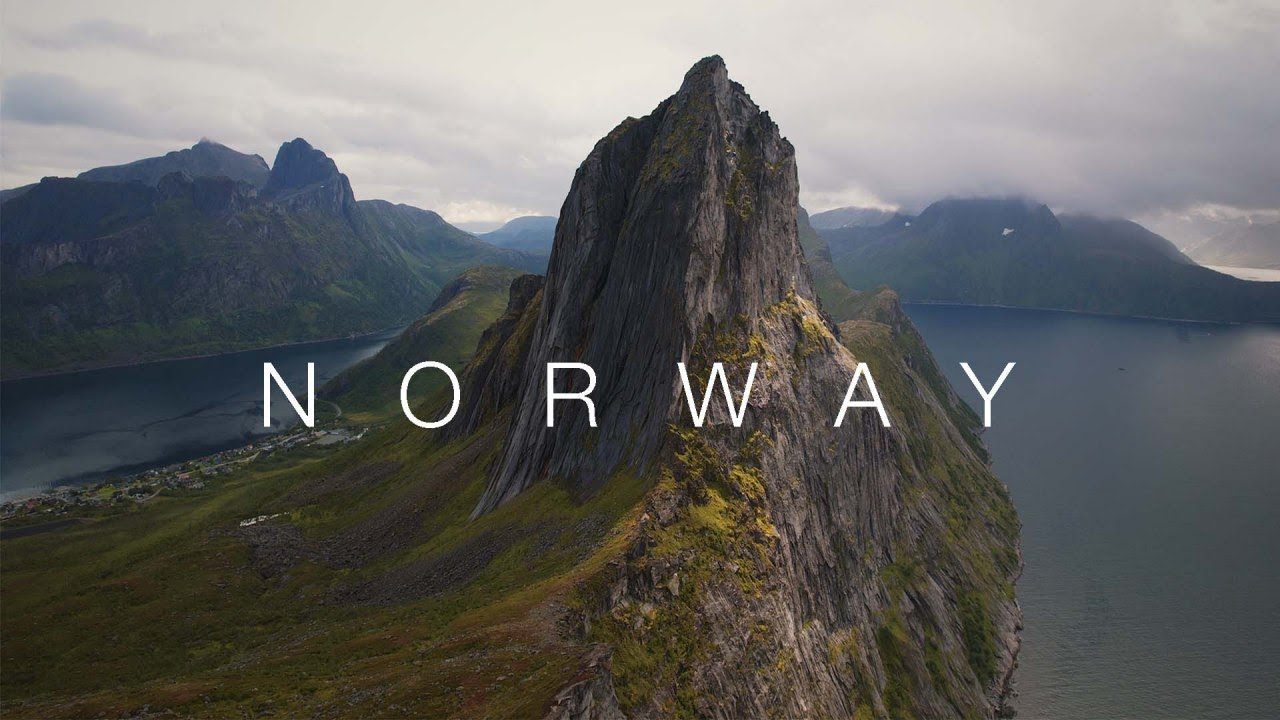
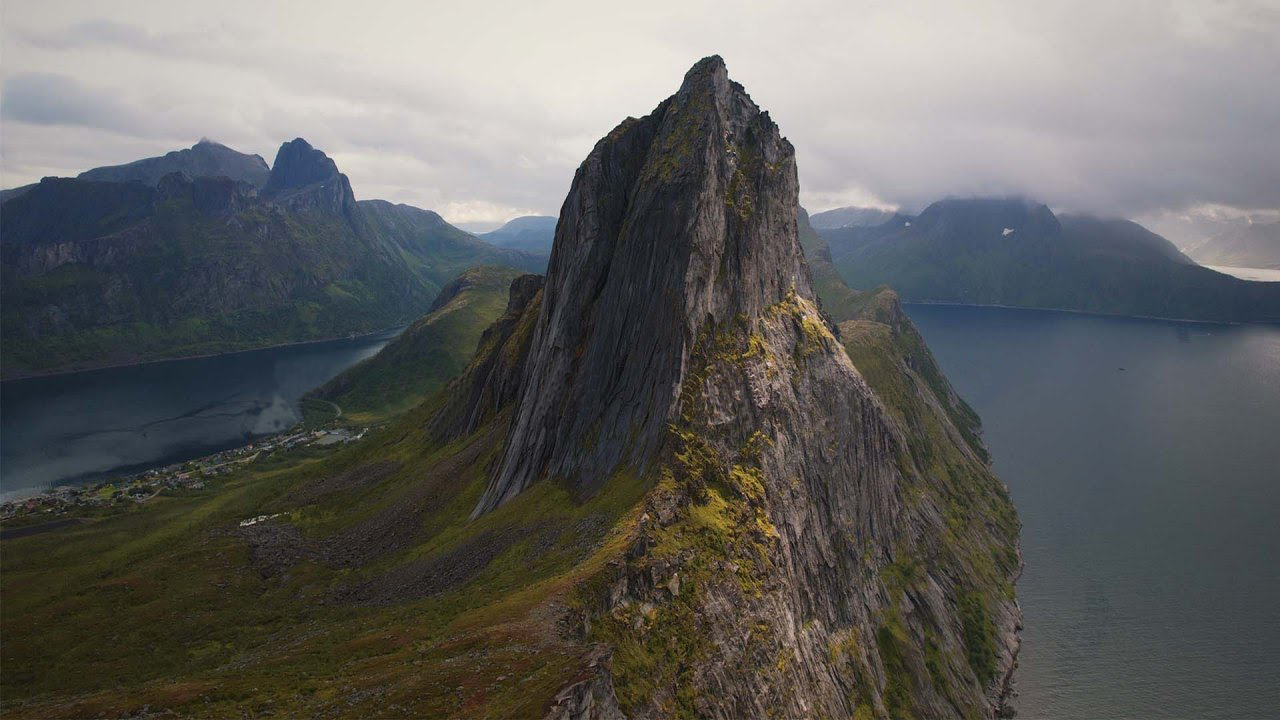
Fixed details

diff --git a/index.html b/index.html
@@ -1,82 +1,98 @@
 <!DOCTYPE html>
 <html lang="en">
+  <head>
+    <meta charset="UTF-8" />
+    <meta http-equiv="X-UA-Compatible" content="IE=edge" />
+    <meta name="viewport" content="width=device-width, initial-scale=1.0" />
+    <link rel="preconnect" href="https://fonts.googleapis.com" />
+    <link rel="preconnect" href="https://fonts.gstatic.com" crossorigin />
+    <link
+      href="https://fonts.googleapis.com/css2?family=Roboto:wght@400;500;700&display=swap"
+      rel="stylesheet"
+    />
+    <link
+      href="https://cdn.jsdelivr.net/npm/bootstrap@5.2.3/dist/css/bootstrap.min.css"
+      rel="stylesheet"
+      integrity="sha384-rbsA2VBKQhggwzxH7pPCaAqO46MgnOM80zW1RWuH61DGLwZJEdK2Kadq2F9CUG65"
+      crossorigin="anonymous"
+    />
+    <script
+      src="https://cdn.jsdelivr.net/npm/bootstrap@5.2.3/dist/js/bootstrap.bundle.min.js"
+      integrity="sha384-kenU1KFdBIe4zVF0s0G1M5b4hcpxyD9F7jL+jjXkk+Q2h455rYXK/7HAuoJl+0I4"
+      crossorigin="anonymous"
+    ></script>
+    <script
+      src="https://kit.fontawesome.com/d1e39d5fc4.js"
+      crossorigin="anonymous"
+    ></script>
+    <link rel="stylesheet" href="/css/styles.css" />
+    <title>Main page</title>
+  </head>
 
-<head>
-  <meta charset="UTF-8" />
-  <meta http-equiv="X-UA-Compatible" content="IE=edge" />
-  <meta name="viewport" content="width=device-width, initial-scale=1.0" />
-  <link rel="preconnect" href="https://fonts.googleapis.com" />
-  <link rel="preconnect" href="https://fonts.gstatic.com" crossorigin />
-  <link href="https://fonts.googleapis.com/css2?family=Roboto:wght@400;500;700&display=swap" rel="stylesheet" />
-  <link href="https://cdn.jsdelivr.net/npm/bootstrap@5.2.3/dist/css/bootstrap.min.css" rel="stylesheet"
-    integrity="sha384-rbsA2VBKQhggwzxH7pPCaAqO46MgnOM80zW1RWuH61DGLwZJEdK2Kadq2F9CUG65" crossorigin="anonymous" />
-  <script src="https://cdn.jsdelivr.net/npm/bootstrap@5.2.3/dist/js/bootstrap.bundle.min.js"
-    integrity="sha384-kenU1KFdBIe4zVF0s0G1M5b4hcpxyD9F7jL+jjXkk+Q2h455rYXK/7HAuoJl+0I4"
-    crossorigin="anonymous"></script>
-  <script src="https://kit.fontawesome.com/d1e39d5fc4.js" crossorigin="anonymous"></script>
-  <link rel="stylesheet" href="/css/styles.css" />
-  <title>Main page</title>
-</head>
-
-<body>
-  <div class="container">
-    <nav class="navbar navbar-expand-lg">
-      <div class="container-fluid">
-        <div class="collapse navbar-collapse navigation" id="navbarNav">
-          <ul class="navbar-nav">
-            <li class="nav-item me-4">
-              <a class="nav-link" aria-current="page" href="#">Tours</a>
-            </li>
-            <li class="nav-item me-4">
-              <a class="nav-link" href="#">About Norway</a>
-            </li>
-            <li class="nav-item me-4">
-              <a class="nav-link active" href="#">Norway</a>
-            </li>
-            <li class="nav-item me-4">
-              <a class="nav-link" href="#">About us</a>
-            </li>
-            <li class="nav-item me-4">
-              <a class="nav-link" href="#">Contacts</a>
-            </li>
-          </ul>
-        </div>
-      </div>
-    </nav>
+  <body>
     <div class="container">
-      <div class="col-10">
-        <img src="/images/norway-1.jpg" alt="norway rocks" class="image d-block m-auto img-fluid" />
-      </div>
-      <div class="  social">
-        <div class="col-2">
-          <div><i class="fa-brands fa-twitter fa-2xl text-light mb-5"></i></div>
-          <div>
-            <i class="fa-brands fa-instagram fa-2xl text-light mb-5 mt-5"></i>
+      <nav class="navbar navbar-expand-lg sticky-top">
+        <div class="container-fluid">
+          <div class="collapse navbar-collapse navigation" id="navbarNav">
+            <ul class="navbar-nav">
+              <li class="nav-item me-4">
+                <a class="nav-link" aria-current="page" href="/tour.html" target="_blank">Tours</a>
+              </li>
+              <li class="nav-item me-4">
+                <a class="nav-link" href="/about.html" target="_blank">About Norway</a>
+              </li>
+              <li class="nav-item me-4">
+                <a class="nav-link active" href="/" target="_blank">Norway</a>
+              </li>
+              <li class="nav-item me-4">
+                <a class="nav-link" href="/team.html" target="_blank">About us</a>
+              </li>
+              <li class="nav-item me-4">
+                <a class="nav-link" href="/contact.html" target="_blank">Contacts</a>
+              </li>
+            </ul>
           </div>
-          <div><i class="fa-brands fa-facebook fa-2xl text-light mt-5"></i></div>
+        </div>
+      </nav>
+      <div class="container d-flex flex-row">
+        <div
+          class="social text-center">
+          <span
+            ><i class="fa-brands fa-twitter fa-2xl text-light mb-5"></i
+          ></span>
+          <span
+            ><i class="fa-brands fa-instagram fa-2xl text-light mb-5 mt-5"></i
+          ></span>
+          <span
+            ><i class="fa-brands fa-facebook fa-2xl text-light mt-5"></i
+          ></span>
+          
+        </div>
+        <div>
+          <img
+            src="/images/norway-1.jpg"
+            alt="norway rocks"
+            class="image d-block m-auto img-fluid"
+          />
         </div>
       </div>
+
+      <div class="container text-center mt-4">
+        <span>
+          <i class="fa-solid fa-chevron-left fa-2xl text-light me-5"></i>
+        </span>
+        <span>
+          <i class="fa-solid fa-chevron-right fa-2xl text-light ms-5"></i>
+        </span>
+      </div>
+
+      <div class="container main">
+        <h1 class="main-heading">Norway</h1>
+        <p class="quote d-block">
+          "Once you catch traveler's fever, you can't cure it and you'll be
+          infected with it for the rest of your life" - Michael Palin
+        </p>
+      </div>
     </div>
-
-    <div class="container text-center mt-4">
-      <span>
-        <i class="fa-solid fa-chevron-left fa-2xl text-light me-5"></i>
-      </span>
-      <span>
-        <i class="fa-solid fa-chevron-right fa-2xl text-light ms-5"></i>
-      </span>
-    </div>
-
-    <div class="container main">
-      <!-- <h1 class="main-heading">Norway</h1> -->
-      <p class="quote d-block">
-        "Once you catch traveler's fever, you can't cure it and you'll be
-        infected with it for the rest of your life" - Michael Palin
-      </p>
-    </div>
-
-
-  </div>
-</body>
-
+  </body>
 </html>

diff --git a/css/styles.css b/css/styles.css
@@ -10,13 +10,14 @@ body {
   font-family: 'Roboto', sans-serif;;
 }
 
-/* .main-heading {
+.main-heading {
   color: var(--main-color);
-  font-size: 48px;
+  font-size: 80px;
   text-align: center;
   margin-top: -450px;
   margin-bottom: 50px;
-} */
+  letter-spacing: 45px;
+}
 
 .main {
   margin-top: -250px;
@@ -54,11 +55,11 @@ body {
 
 .image {
   width: 1100px;
-  /* opacity: 0.5; */
 }
 
-/* .social {
-  position: absolute;
-  top: 300px;
-  left: 150px;
-} */
+.social {
+  width: 10%;
+  display: flex;
+  flex-direction: column;
+  justify-content: center;
+}
